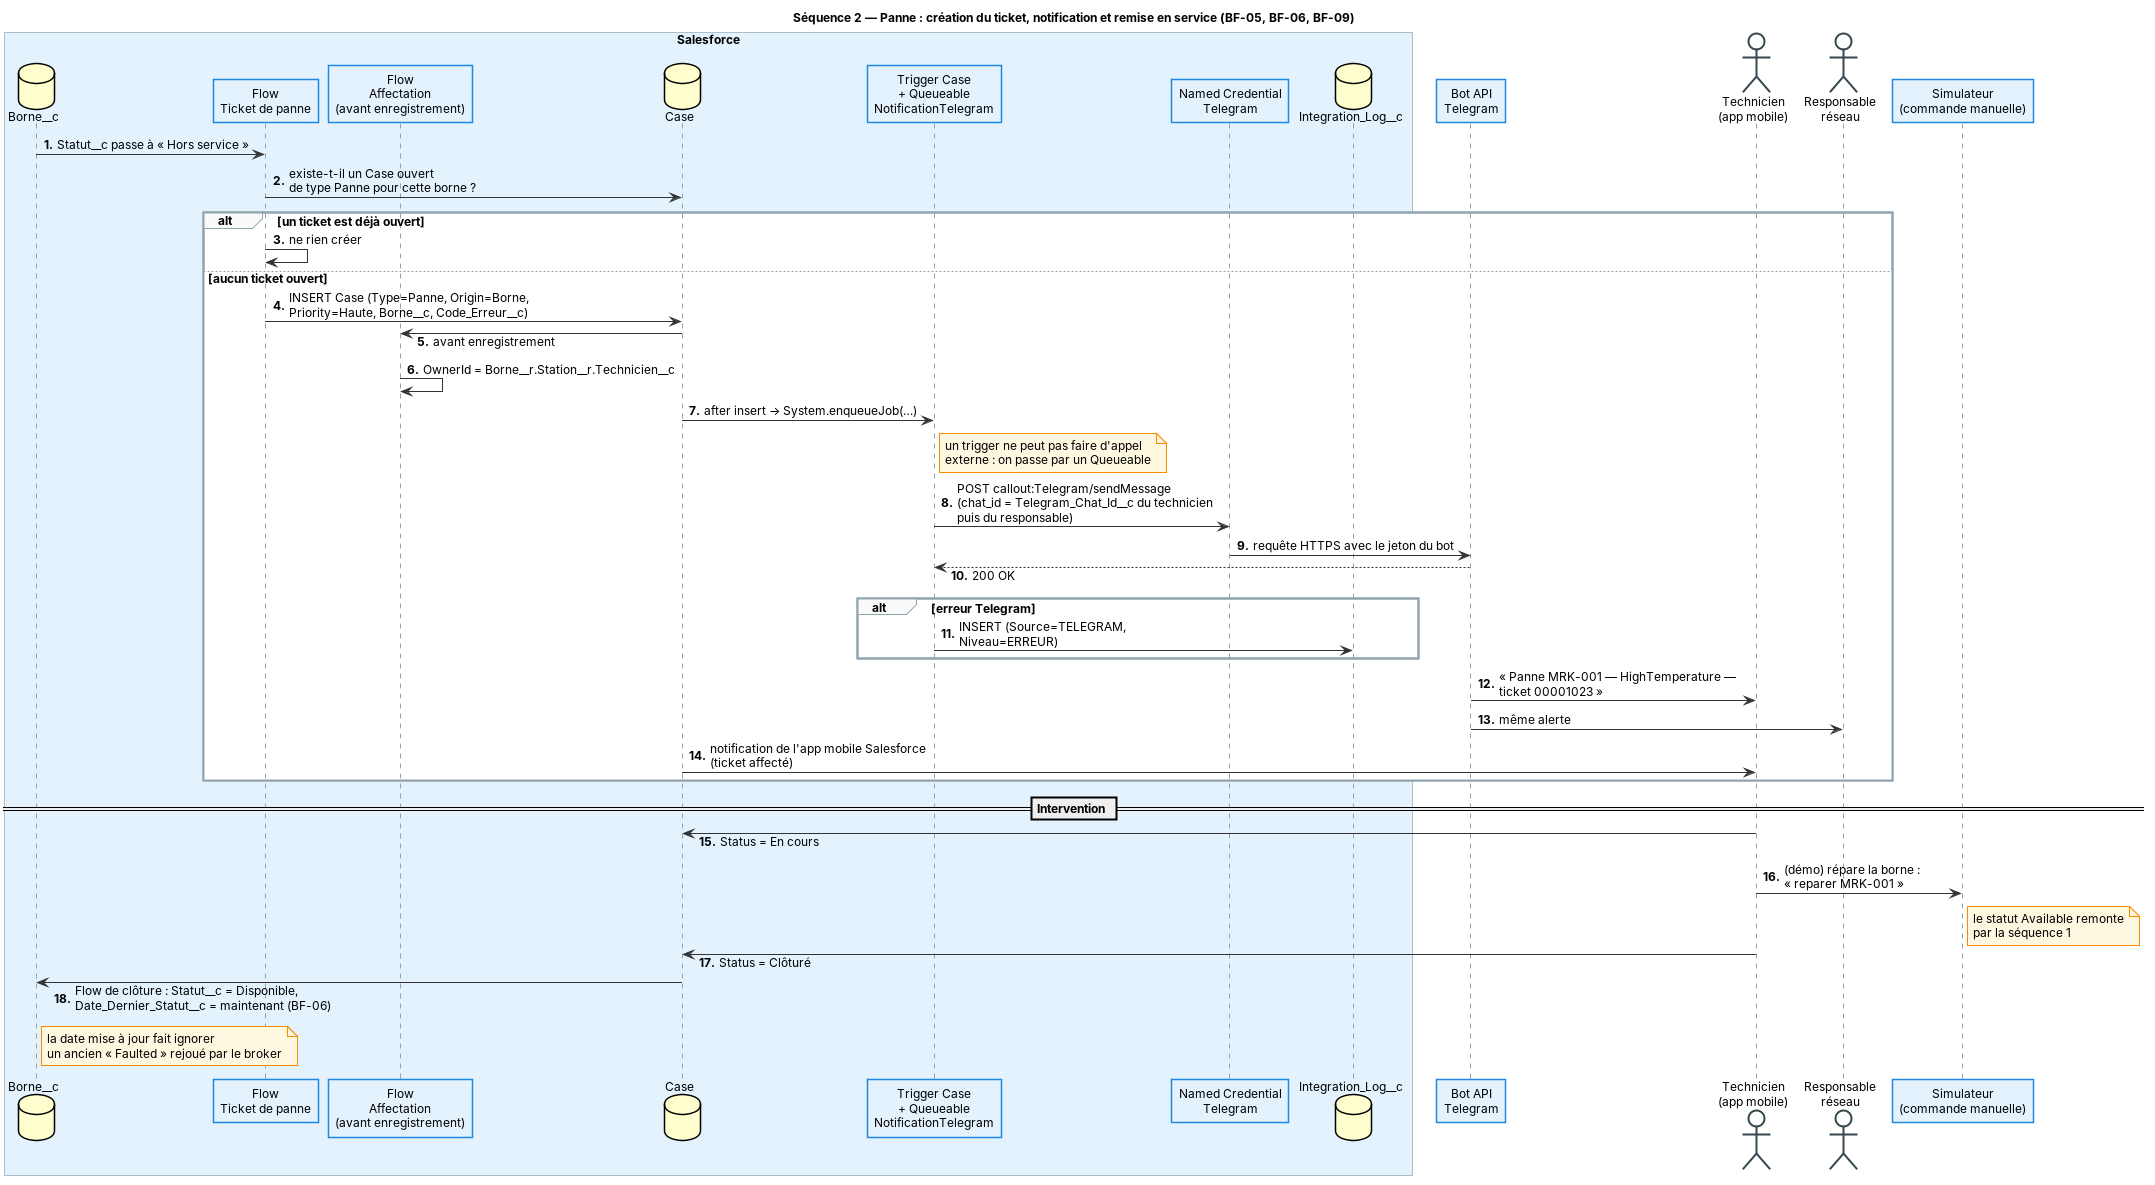
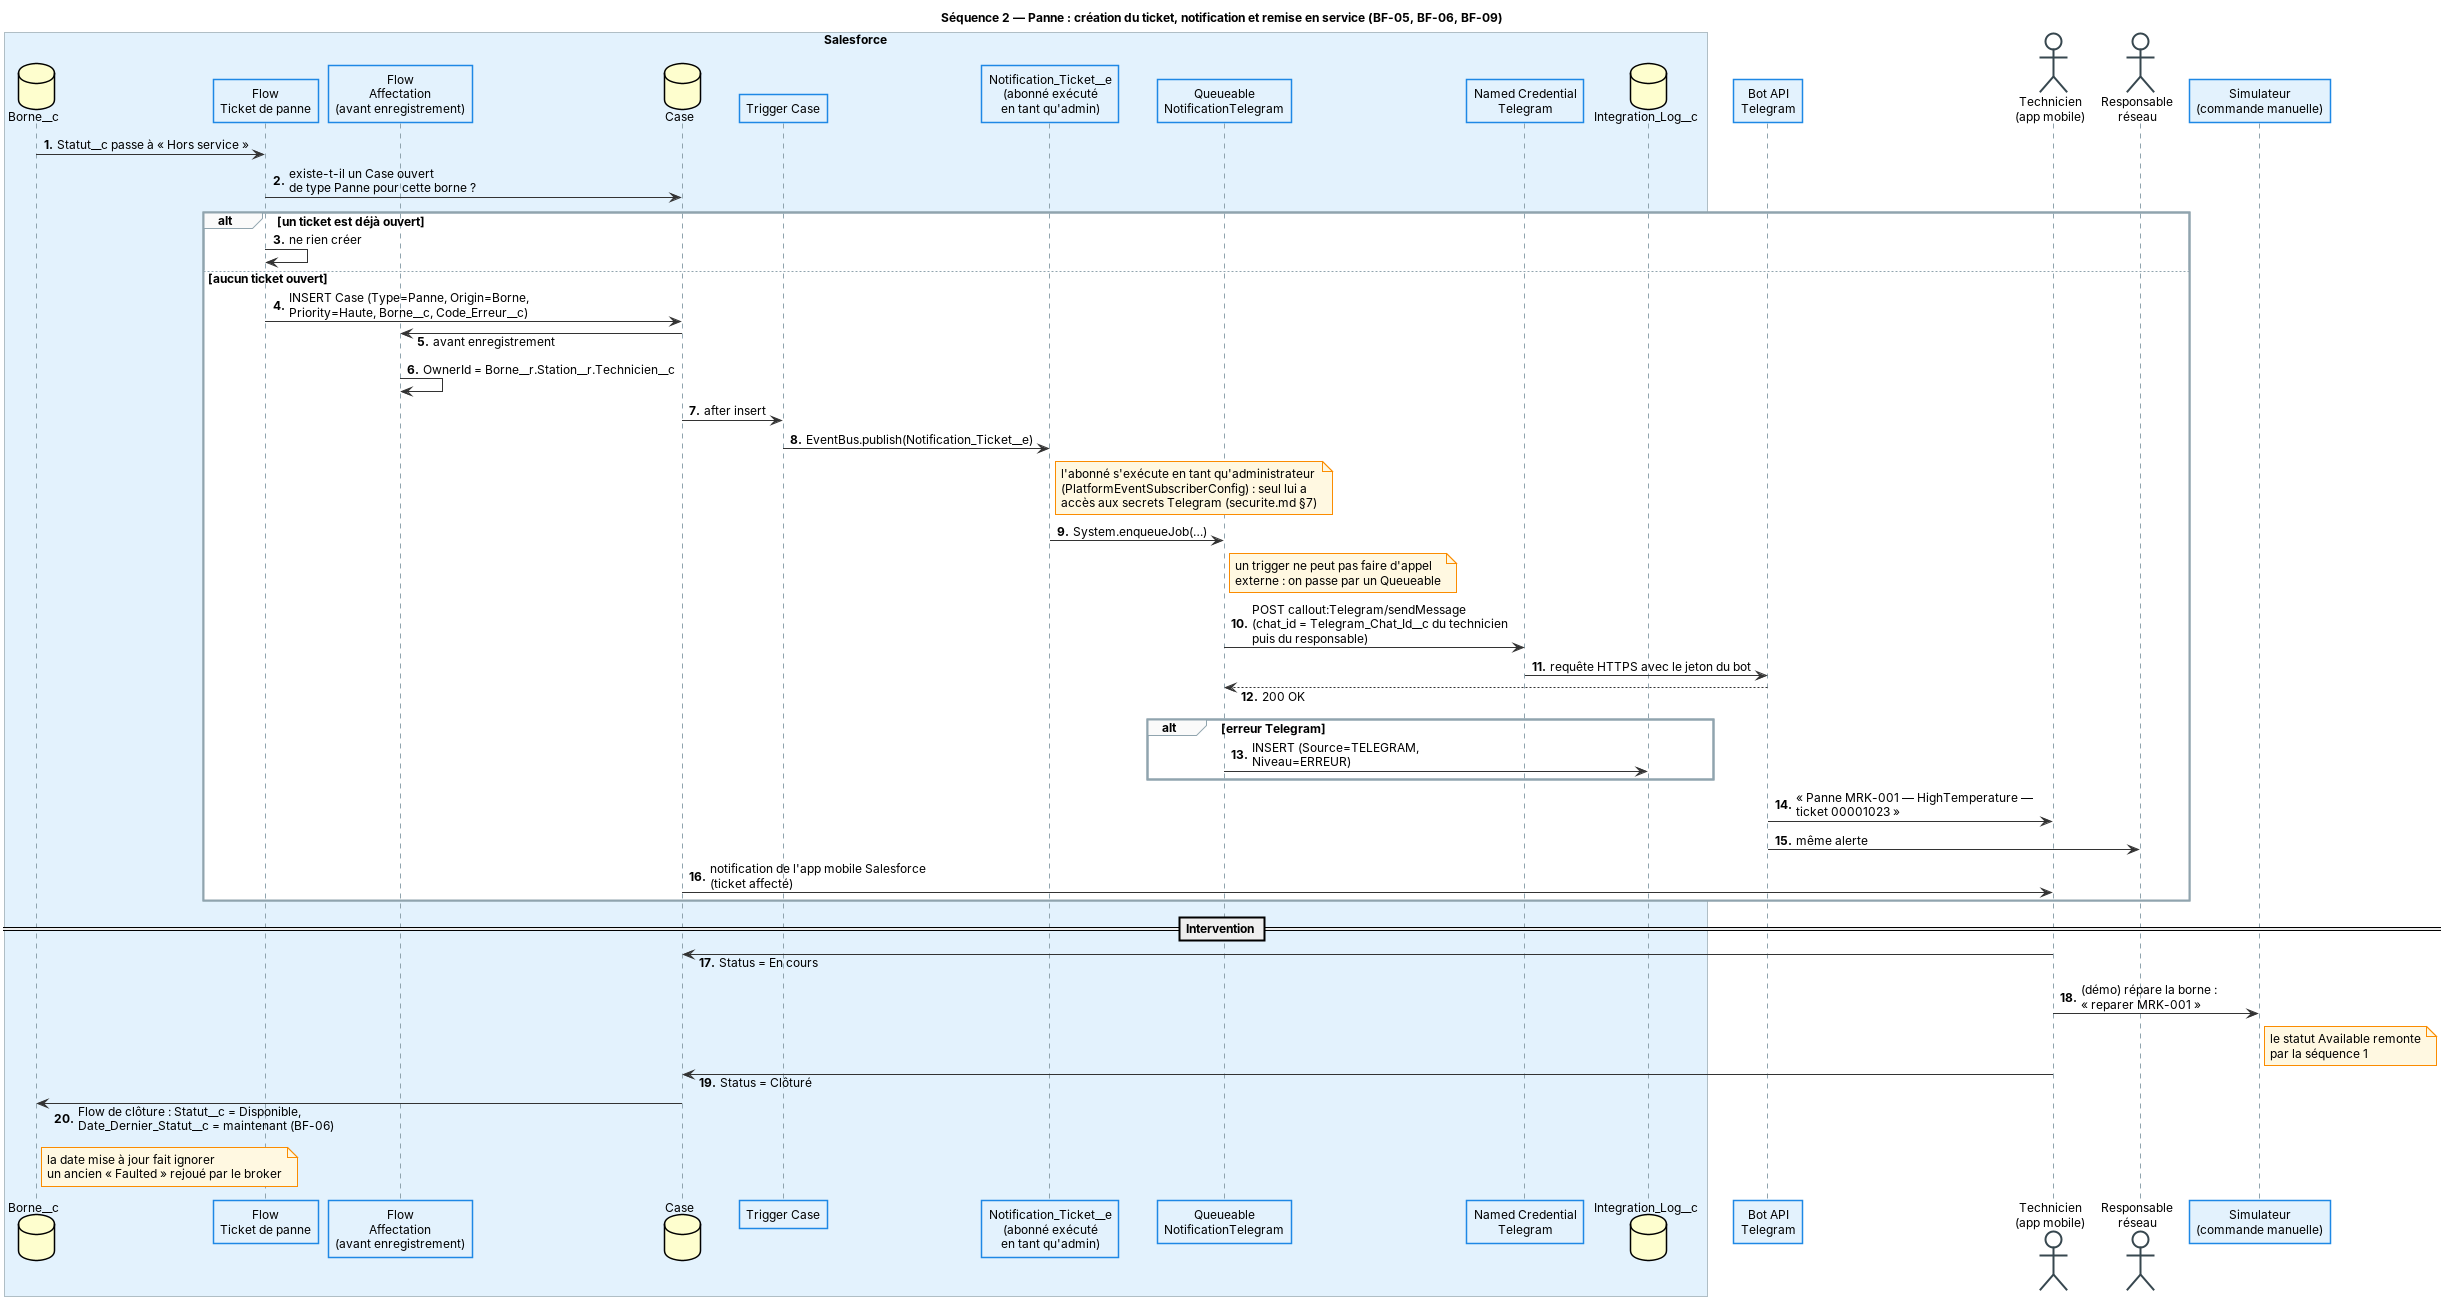
VC-25 : décisions de sécurité validées, dictionnaire v1.2, séquences 2 et 4 mises à jour (#11)

diff --git a/docs/conception/securite.md b/docs/conception/securite.md
@@ -1,0 +1,165 @@
+# Sécurité et droits d'accès — VoltCare
+
+| | |
+|---|---|
+| **Version** | 1.0 — validée par l'équipe |
+| **Sprint** | S2 — Conception |
+| **Exigence** | Besoins non fonctionnels — Sécurité : profils et Permission Sets par acteur, Named Credentials, aucun secret dans le code, OAuth 2.0 pour la passerelle |
+| **Documents liés** | `dictionnaire-donnees.md` v1.1, contrats v1.0, diagrammes de séquence |
+
+---
+
+## 1. Principes
+
+1. **Moindre privilège** : chaque utilisateur reçoit uniquement les droits dont son rôle a besoin.
+2. **Profils minimaux, droits dans les Permission Sets** : les profils ne donnent presque rien ; les droits métier sont portés par un Permission Set par acteur. Les Permission Sets sont plus simples à versionner dans Git que les profils, qui créent des conflits.
+3. **Deux niveaux de contrôle** :
+   - les **droits sur l'objet et les champs** (Permission Sets) disent *ce qu'un utilisateur peut faire* ;
+   - le **partage** (Org-Wide Defaults, hiérarchie des rôles, Sharing Sets) dit *sur quels enregistrements*.
+4. **Aucun secret dans le code ni sur GitHub** : Named Credentials côté Salesforce, fichiers `.env` côté Python, paramètres d'application côté Azure.
+
+---
+
+## 2. Utilisateurs de l'org de démo
+
+| Utilisateur | Licence | Profil | Permission Sets | Rôle |
+|---|---|---|---|---|
+| Administrateur (intégrateur) | Salesforce | System Administrator | `VoltCare_Integrations` | — |
+| Responsable réseau (démo) | Salesforce | `VoltCare Interne` (copie de *Minimum Access - Salesforce*) | `VoltCare_Responsable` | Responsable réseau |
+| Technicien (démo) | Salesforce | `VoltCare Interne` | `VoltCare_Technicien` | Technicien |
+| Passerelle VoltCare | **Salesforce Integration** | *Minimum Access - API Only Integrations* | `VoltCare_Passerelle` | — |
+| 3 clients de démo | **Customer Community Login** | `VoltCare Client` (copie de *Customer Community Login User*) | `VoltCare_Client` | — |
+| *Automated Process* (système) | — | — | — | Exécute le trigger du Platform Event |
+
+**Limite de licences** : l'org n'a que 2 licences Salesforce libres, donc **un seul technicien de démo**. Pour la démonstration, il est indiqué comme `Technicien__c` des 6 stations.
+
+### Hiérarchie des rôles
+
+```
+Responsable réseau
+ └── Technicien
+```
+La hiérarchie permet au responsable de voir et de réaffecter les tickets de tous les techniciens, sans droit « Tout voir » sur l'objet.
+
+---
+
+## 3. Partage par défaut (Org-Wide Defaults)
+
+| Objet | Interne | Externe (portail) | Justification |
+|---|---|---|---|
+| `Station__c` | Public lecture/écriture | Public lecture seule | Tous les internes lisent les stations ; seuls ceux qui en ont le droit sur l'objet (responsable, admin) les modifient. Les clients en ont besoin pour la carte |
+| `Borne__c` | Contrôlé par le parent | Contrôlé par le parent | Master-Detail de `Station__c` |
+| `Session_Recharge__c` | Contrôlé par le parent | Contrôlé par le parent | Master-Detail de `Borne__c` — voir §5 pour l'accès des clients |
+| `Mesure_Borne__c` | Contrôlé par le parent | Contrôlé par le parent | Master-Detail de `Borne__c` ; aucun droit sur l'objet pour les clients |
+| `Case` | **Privé** | **Privé** | Un technicien voit ses tickets ; le responsable voit tout grâce à la hiérarchie ; un client voit ses propres signalements grâce à un **Sharing Set** |
+| `Contact` | Privé (contrôlé par le compte) | Privé | Un client ne voit que son propre contact |
+| `Integration_Log__c` | Privé | Privé | Journal technique réservé à l'administrateur et au responsable |
+
+**Sharing Set** (Experience Cloud) : un utilisateur client a accès aux `Case` dont `ContactId` = son contact.
+
+---
+
+## 4. Matrice des droits par Permission Set
+
+L = lecture · C = création · M = modification · S = suppression · — = aucun accès
+
+| Objet | Admin | `VoltCare_Responsable` | `VoltCare_Technicien` | `VoltCare_Passerelle` | `VoltCare_Client` |
+|---|:-:|:-:|:-:|:-:|:-:|
+| `Station__c` | L C M S | L M | L | — | L |
+| `Borne__c` | L C M S | L M | L | — | L *(champs limités, §6)* |
+| `Session_Recharge__c` | L C M S | L | L | — | — *(via contrôleur, §5)* |
+| `Mesure_Borne__c` | L C M S | L | L | — | — |
+| `Case` | L C M S | L C M | L M | — | L C |
+| `Contact` | L C M S | L | L | — | L |
+| `Integration_Log__c` | L S | L | — | — | — |
+| `Borne_Event__e` (Platform Event) | L C | — | — | **C** | — |
+
+**Droits système** : le Permission Set `VoltCare_Passerelle` donne aussi *API Enabled*. Aucun utilisateur humain, hormis l'administrateur, n'a *Modify All Data* ni *View All Data*.
+
+**Pourquoi la passerelle n'a aucun droit sur les objets métier** : elle ne fait que publier des `Borne_Event__e`. C'est le trigger, exécuté par Salesforce, qui écrit dans `Borne__c`, `Session_Recharge__c` et `Mesure_Borne__c`. Si ses identifiants fuitaient, ils ne permettraient ni de lire ni de modifier les données.
+
+---
+
+## 5. Accès des clients à leur historique de recharges
+
+Les sessions sont en Master-Detail de la borne. Si un client avait le droit de lire l'objet `Session_Recharge__c`, il verrait **les sessions de tous les clients** sur les bornes qu'il peut lire.
+
+**Solution retenue** : les clients **n'ont aucun droit** sur `Session_Recharge__c`. La page « Mes recharges » appelle un contrôleur Apex `MesRechargesController` qui :
+- s'exécute sans partage (`without sharing`) ;
+- filtre **toujours** sur `Client__c = ` le contact de l'utilisateur connecté (`UserInfo` → `User.ContactId`) ;
+- ne renvoie que les champs affichés sur la page.
+
+Ce filtre est la seule barrière : il doit être couvert par un test Apex qui vérifie qu'un client ne reçoit jamais la session d'un autre.
+
+*Alternative écartée* : passer `Session_Recharge__c` en Lookup avec un Sharing Set. C'est plus « natif », mais on perdrait le roll-up de l'énergie délivrée sur la borne et la suppression en cascade.
+
+---
+
+## 6. Sécurité au niveau des champs (FLS)
+
+| Champ | Responsable | Technicien | Client |
+|---|---|---|---|
+| `Borne__c` : code, station, statut, puissance max | L | L | L |
+| `Borne__c` : statut OCPP, dernier code d'erreur, joignable | L | L | — |
+| `Borne__c` : score, niveau, facteurs de risque | L | L | — |
+| `Borne__c` : fabricant, modèle, firmware | L | L | — |
+| `Borne__c` : date de mise en service | L M | L | — |
+| `Station__c.Technicien__c` | L M | L | — |
+| `Case` : champs ajoutés (borne, code d'erreur, score) | L | L | Borne seulement |
+| `Case.Type_Probleme_Client__c`, `Notifier_Client__c` | L | L | L C |
+| `Contact.Badge_RFID__c` | L | — | L |
+| `User.Telegram_Chat_Id__c` | — | — | — |
+
+Les champs remplis par le système (statut, score, mesures) sont **en lecture seule pour tous les humains**, administrateur compris dans les mises en page.
+
+---
+
+## 7. Sécurité des intégrations
+
+| Intégration | Méthode | Où est le secret | Qui y a accès |
+|---|---|---|---|
+| Passerelle → Salesforce | OAuth 2.0 *Client Credentials*, Connected App (ou External Client App) « VoltCare Passerelle », exécutée en tant qu'utilisateur Passerelle VoltCare, portée `api` uniquement | `client_id` / `client_secret` dans `gateway/.env` | L'équipe, en local ; jamais sur GitHub |
+| Salesforce → API IA | Named Credential `VoltCare_IA` + External Credential (en-tête `X-API-Key`) | External Credential (Salesforce) et paramètre `API_KEY` d'Azure App Service | Utilisateurs ayant `VoltCare_Integrations` |
+| Salesforce → Telegram | Named Credential `Telegram` (le jeton du bot fait partie de l'URL de l'API Telegram) | Configuration du Named Credential | Utilisateurs ayant `VoltCare_Integrations` |
+| Simulateur ↔ Mosquitto | Identifiants Mosquitto, accès anonyme désactivé | `simulator/.env` et `gateway/.env` | L'équipe, en local |
+
+### Qui exécute les appels sortants
+
+Avec les Named Credentials récents, **l'utilisateur qui exécute l'appel** doit avoir accès à l'External Credential par un Permission Set (`VoltCare_Integrations`).
+
+- **Prédiction IA** : le Scheduled Apex s'exécute en tant que l'administrateur qui l'a planifié → il a `VoltCare_Integrations`. ✅
+- **Notifications Telegram** : le Queueable s'exécuterait en tant que l'utilisateur qui a créé le ticket, c'est-à-dire le processus système, un technicien, ou **un client du portail**. Donner l'accès aux secrets Telegram à un client n'est pas acceptable.
+  - **Décision** : le trigger du `Case` publie un événement interne `Notification_Ticket__e`. Son abonné est configuré (`PlatformEventSubscriberConfig`) pour s'exécuter en tant que l'administrateur, et c'est lui qui lance le Queueable Telegram (séquences 2 et 4, dictionnaire v1.2).
+
+---
+
+## 8. Portail client
+
+- **Connexion obligatoire** pour toutes les pages, y compris la carte.
+- **Inscription libre** activée (*Configurable Self-Reg Page*) : le client saisit son email, reçoit un code de vérification et choisit son mot de passe. Il devient automatiquement un Contact du compte « Clients VoltCare », avec le profil `VoltCare Client`.
+  - Limite : **10 comptes clients** au maximum (5 *Customer Community Login* + 5 *Customer Community*).
+  - Prérequis : **Setup → Deliverability → All email**, sinon le code de vérification n'est pas envoyé.
+  - Seule la page d'inscription est accessible sans connexion (utilisateur *guest*).
+- **Badge RFID** : un nouveau client saisit son numéro de badge sur une page « Mon compte » du portail, qui renseigne `Contact.Badge_RFID__c`. Tant qu'il ne l'a pas fait, ses recharges ne lui sont pas rattachées.
+- Le contrôleur de signalement vérifie que la borne choisie existe et renseigne lui-même `ContactId` à partir de l'utilisateur connecté : un client ne peut pas créer un ticket au nom d'un autre.
+
+---
+
+## 9. Traçabilité
+
+- **Historique des champs** activé sur `Borne__c.Statut__c`, `Borne__c.Niveau_Risque__c`, `Case.Status` et `Case.OwnerId`.
+- Toutes les erreurs d'intégration sont écrites dans `Integration_Log__c` (conservé 7 jours).
+
+---
+
+## 10. Décisions d'équipe
+
+- [x] Carte du portail : **connexion obligatoire**, avec inscription libre (§8)
+- [x] Historique des recharges servi par un **contrôleur Apex filtré** (§5)
+- [x] Notifications Telegram exécutées par l'administrateur via l'événement **`Notification_Ticket__e`** (§7)
+
+## Historique
+
+| Version | Date | Modification |
+|---|---|---|
+| 1.0 | 10/11/2026 | Premier jet, décisions validées : connexion obligatoire avec inscription libre, contrôleur filtré, `Notification_Ticket__e` |

diff --git a/docs/conception/dictionnaire-donnees.md b/docs/conception/dictionnaire-donnees.md
@@ -2,7 +2,7 @@
 
 | | |
 |---|---|
-| **Version** | 1.1 |
+| **Version** | 1.2 |
 | **Sprint** | S2 — Conception |
 | **Diagramme** | `modele-donnees.puml` / `modele-donnees.png` |
 | **Contrats liés** | `contrat-mqtt.md`, `contrat-platform-event.md`, `contrat-api-ia.md` (v1.0) |
@@ -182,6 +182,15 @@ Colonne **Rempli par** : *Trigger* = trigger Apex sur `Borne_Event__e` · *IA* =
 
 Non stocké : il est consommé par le trigger. Ses champs sont définis dans `contrat-platform-event.md` v1.0, §3.
 
+## 10 bis. `Notification_Ticket__e` — Platform Event interne
+
+Publié par le trigger du `Case` à la création d'un ticket (et à sa réaffectation). Son abonné s'exécute **en tant que l'administrateur** (`PlatformEventSubscriberConfig`) et lance le Queueable Telegram : ainsi, ni les clients du portail ni les techniciens n'ont besoin d'accéder aux secrets Telegram (voir `securite.md` §7).
+
+| Champ API | Libellé | Type | Oblig. | Description |
+|---|---|---|:-:|---|
+| `Case_Id__c` | Ticket | Text(18) | ✔ | Id du `Case` à notifier |
+| `Type_Notification__c` | Type | Text(20) | ✔ | `CREATION` ou `REAFFECTATION` |
+
 ---
 
 ## 11. Estimation du stockage (Developer Edition : 5 Mo)
@@ -207,3 +216,4 @@ Chaque enregistrement compte pour environ 2 Ko.
 |---|---|---|
 | 1.0 | 10/11/2026 | Premier jet, décisions validées en équipe |
 | 1.1 | 10/11/2026 | Ajout de `Case.Notifier_Client__c` et des règles d'affectation et de clôture (issus des diagrammes de séquence) |
+| 1.2 | 10/11/2026 | Ajout du Platform Event `Notification_Ticket__e` (décision sécurité) |
